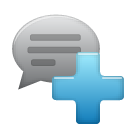
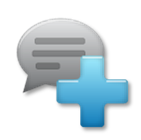
Welcome page

Changed region(s): [[0.0938, 0.0938, 0.9688, 0.9688], [0.2188, 0.25, 0.25, 0.3125], [0.2188, 0.4688, 0.25, 0.5]]

diff --git a/app/assets/stylesheets/all/bootstrap_and_overrides.css.scss b/app/assets/stylesheets/all/bootstrap_and_overrides.css.scss
@@ -185,6 +185,16 @@ footer {
     margin-bottom: 6px;
   }
 
+  .alert-info {
+    background-color: #EEEEEE;
+    border-color: #999999;
+    color: #999999;
+  }
+
+  label {
+    color: #000000;
+  }
+
   input, textarea {
       width: 70%;
     }
@@ -1121,7 +1131,7 @@ a:hover {
 }
 
 .job_details_block {
-  min-height:200px;
+  min-height:300px;
 
 }
 
@@ -2295,6 +2305,11 @@ hr {
   margin-left: -1.5%;
 }
 
+.well_signin {
+  min-height: 575px;
+  margin-left: -0.5%;
+}
+
 .well_job_history {
   min-height: 575px;
 
@@ -2935,18 +2950,40 @@ button.DTTT_button, div.DTTT_button, a.DTTT_button {
   }
 }
 
+.background_welcome {
+
+  img {
+  position: fixed;
+  top:0px;
+  left:0px;
+  z-index:-100;
+  width:100%;
+  //min-height: 100%;
+  //min-height: 917px;
+  //min-height: 1000px;
+  //min-width: 1000px;
+  }
+}
+
 .welcomepage_frame {
 
-  background-image: asset-url('welcome_bg7.png', image);
+  //background-image: asset-url('welcome_bg7.png', image);
+  //margin-left: -20px;
+  //margin-top: -19px;
+  min-height: 1000px;
+  margin-bottom: 200px;
+  //padding-right: 40px;
+  //width: 102%;
+  //z-index: 1;
+
+  //bgproperties: fixed;
+  //background-attachment: fixed;
+  //background-position: fixed;
   //background-position: center;
   //background-repeat: no-repeat;
-  margin-left: -20px;
-  margin-top: -19px;
-  min-height: 800px;
   //padding-right: 2.2%;
-  padding-right: 40px;
-  width: 102%;
-  z-index: 1;
+
+
 }
 
 .well_welcome {
@@ -2972,7 +3009,7 @@ button.DTTT_button, div.DTTT_button, a.DTTT_button {
   margin-bottom: 20px;
   //margin-left: 2.2%;
   margin-left: 20px;
-  margin-top: 1%;
+  margin-top: -2%;
   //min-height: 800px;
   padding: 19px;
 
@@ -3010,9 +3047,10 @@ button.DTTT_button, div.DTTT_button, a.DTTT_button {
     font-size: 20px;
     font-weight: normal;
     line-height: 25px;
-    padding-left: 1%;
+    //padding-left: 1%;
     margin-bottom: 10px;
     text-shadow: 1px 1px #000000;
+    text-align: center;
 
 
   }
@@ -3023,9 +3061,10 @@ button.DTTT_button, div.DTTT_button, a.DTTT_button {
     font-size: 28px;
     font-weight: bold;
     line-height: 30px;
-    padding-left: 1%;
+    //padding-left: 1%;
     margin-bottom: 10px;
     text-shadow: 1px 1px #000000;
+    text-align: center;
   }
 
   h4 {
@@ -3058,20 +3097,24 @@ button.DTTT_button, div.DTTT_button, a.DTTT_button {
 .benefit {
   float: left;
   overflow: hidden;
-  width: 300px;
-  line-height: 50px;
+  width: 350px;
+  line-height: 170px;
+  margin-buttom: 10px;
+  margin-right: 10px;
 
   .benefit_icon {
     float: left;
     padding-right: 10px;
     text-align: left;
-    width: 80px;
+    width: 75px;
+    margin-top: -45px;
   }
 
   .benefit_text {
     float: left;
     padding-top: 10px;
-    width: 200px;
+    width: 260px;
+    margin-right: 5px;
   }
 
   h3 {
@@ -3079,15 +3122,68 @@ button.DTTT_button, div.DTTT_button, a.DTTT_button {
     font-family: Century Gothic;
     font-size: 23px;
     font-weight: normal;
-    line-height: 18px;
+    line-height: 22px;
     //padding-bottom: 8px;
   }
 
   p {
-    padding-bottom: 18px;
     font-style: italic;
     font-weight: 100;
-    margin-top: -6px;
+    line-height: 20px;
+    margin-top: 4px;
+    //padding-bottom: 18px;
+    font-size: 16px;
+  }
+
+
+}
+
+.welcome_contactus {
+
+  input {
+    border: 1px solid #254061;
+    border-radius: 4px 4px 4px 4px;
+    color: #888888;
+    font-size: 16px;
+    height: 35px;
+    line-height: 32px;
+    margin: 7px 80px 7px 0;
+    padding-bottom: 0;
+    padding-left: 15px;
+    width: 220px;
+  }
+
+  .btn {
+    margin-top: 10px;
+  }
+
+}
+
+
+
+.welcome_footer {
+
+    background-color: #737373;
+    background-image: -moz-linear-gradient(center top , #888888, #555555);
+    background-repeat: repeat-x;
+    border-radius: 4px 4px 4px 4px;
+    box-shadow: 0 1px 3px rgba(0, 0, 0, 0.25), 0 -1px 0 rgba(0, 0, 0, 0.1) inset;
+    min-height: 60px;
+    padding-top: 10px;
+
+  small {
+   margin-left: 1%;
+   color: #ffffff;
+  }
+
+  a {
+   color: #F5F5F5;
+   font-weight: bold;
+   font-size: 16px;
+  }
+
+  nav {
+    margin-right: 1%;
   }
 
 

diff --git a/app/assets/javascripts/all/jquery.ezpz_hint.js b/app/assets/javascripts/all/jquery.ezpz_hint.js
@@ -1,0 +1,63 @@
+// EZPZ Hint v1.1.1; Copyright (c) 2009 Mike Enriquez, http://theezpzway.com; Released under the MIT License
+(function($){
+    $.fn.ezpz_hint = function(options){
+        var defaults = {
+            hintClass: 'ezpz-hint',
+            hintName: 'ezpz_hint_dummy_input'
+        };
+        var settings = $.extend(defaults, options);
+
+        return this.each(function(){
+            var hint;
+            var dummy_input;
+
+            // grab the input's title attribute
+            text = $(this).attr('title');
+
+            // create a dummy input and place it before the input
+            $('<input type="text" name="temp" value="" />').insertBefore($(this));
+
+            // set the dummy input's attributes
+            hint = $(this).prev('input:first');
+            hint.attr('class', $(this).attr('class'));
+            hint.attr('size', $(this).attr('size'));
+            hint.attr('name', settings.hintName);
+            hint.attr('autocomplete', 'off');
+            hint.attr('tabIndex', $(this).attr('tabIndex'));
+            hint.addClass(settings.hintClass);
+            hint.val(text);
+
+            // hide the input
+            $(this).hide();
+
+            // don't allow autocomplete (sorry, no remember password)
+            $(this).attr('autocomplete', 'off');
+
+            // bind focus event on the dummy input to swap with the real input
+            hint.focus(function(){
+                dummy_input = $(this);
+                $(this).next('input:first').show();
+                $(this).next('input:first').focus();
+                $(this).next('input:first').unbind('blur').blur(function(){
+                    if ($(this).val() == '') {
+                        $(this).hide();
+                        dummy_input.show();
+                    }
+                });
+                $(this).hide();
+            });
+
+            // swap if there is a default value
+            if ($(this).val() != ''){
+                hint.focus();
+            };
+
+            // remove the dummy inputs so that they don't get submitted
+            $('form').submit(function(){
+                $('.' + settings.hintName).remove();
+            });
+        });
+
+    };
+})(jQuery);
+
